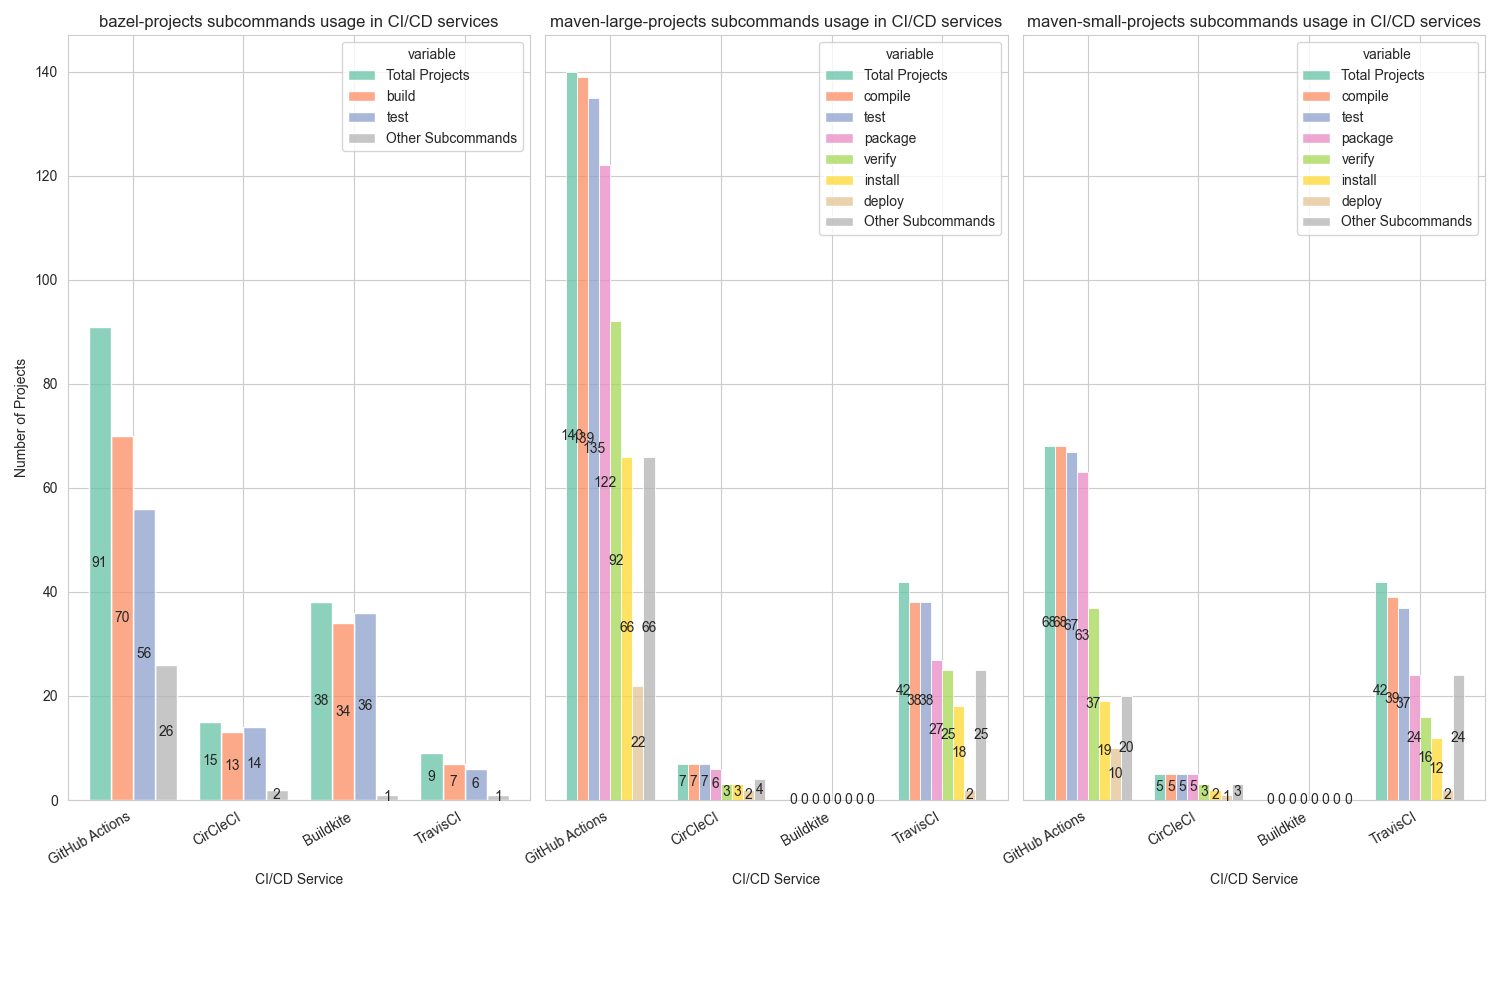
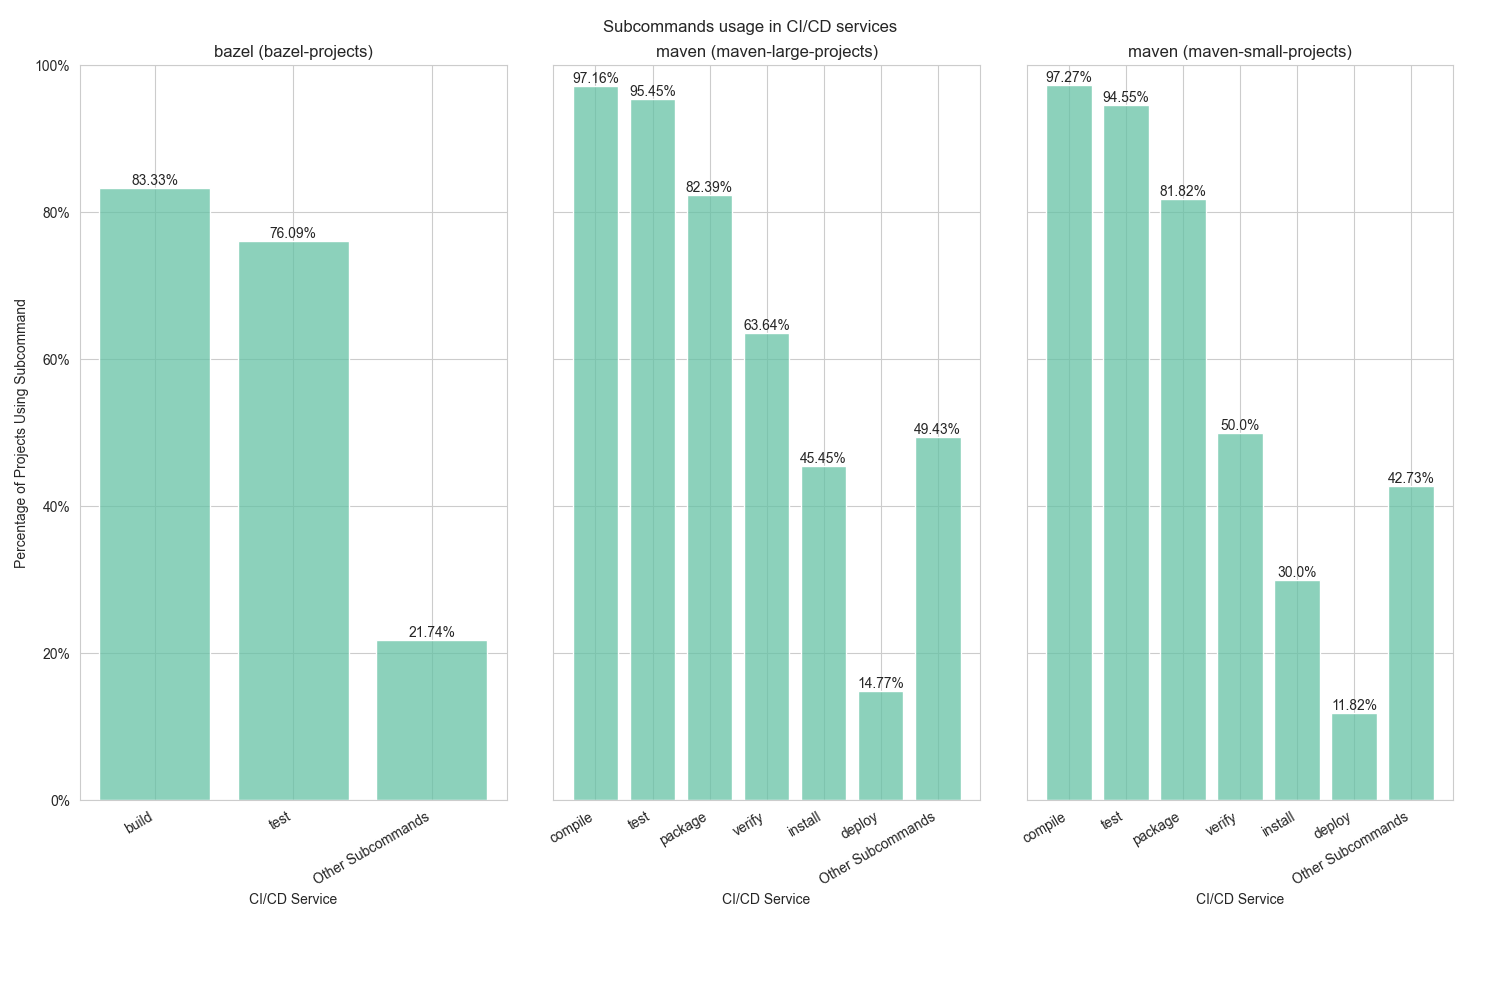
feat: change the CI tool usage plot to percentage-based

diff --git a/visualization/visualize.py b/visualization/visualize.py
@@ -3,7 +3,7 @@ import copy
 import numpy as np
 import pandas as pd
 import seaborn as sns
-from matplotlib import pyplot as plt
+from matplotlib import pyplot as plt, ticker
 import matplotlib.ticker as mticker
 
 from visualization.preprocess import *
@@ -14,16 +14,16 @@ def visualize_data(data_dir: str):
 
     data_dir = os.path.join(data_dir, "processed")
     # visualize_ci_tools(data_dir)
+    visualize_subcommand_usage(data_dir)
     # visualize_parallelization_usage(data_dir)
     # visualize_cache_usage(data_dir)
-    # visualize_subcommand_usage(data_dir)
     # visualize_build_rule_categories(data_dir)
     # visualize_script_usage(data_dir)
-    visualize_arg_size(data_dir)
+    # visualize_arg_size(data_dir)
 
 
 def visualize_ci_tools(data_dir: str):
-    fig, axs = plt.subplots(ncols=3, nrows=1, figsize=(15, 10), tight_layout=True, sharey=True)
+    fig, axs = plt.subplots(ncols=3, nrows=2, figsize=(15, 10), sharex=True)
     parent_dir_names = {"bazel-projects": "bazel", "maven-large-projects": "maven", "maven-small-projects": "maven"}
     idx = 0
     for parent_dir_name, correspondent_build_tool in parent_dir_names.items():
@@ -40,18 +40,60 @@ def visualize_ci_tools(data_dir: str):
                 build_tool_usage.loc[
                     build_tool_usage["CI/CD Services"] == ci_tool, "CI" if used_in_tool else "Local"] += 1
 
-        build_tool_usage = build_tool_usage.melt(id_vars="CI/CD Services")
-        ax = sns.histplot(data=build_tool_usage, x="CI/CD Services", hue="variable", weights="value", discrete=True,
-                          palette="Set2", multiple="stack", ax=axs[idx])
-        idx += 1
+        build_tool_usage["total"] = build_tool_usage["Local"] + build_tool_usage["CI"]
+        build_tool_usage["CI_percentage"] = build_tool_usage["CI"] / build_tool_usage["total"]
+        build_tool_usage["Local_percentage"] = build_tool_usage["Local"] / build_tool_usage["total"]
+
+        ax = sns.histplot(data=build_tool_usage, weights="CI_percentage", x="CI/CD Services",
+                          shrink=.8, ax=axs[0][idx], color="#66c2a5")
+
+        ax.set_title(f"{correspondent_build_tool} ({parent_dir_name})")
+
+        ax.set(ylim=(0, 1))
+        if idx == 0:
+            ax.set_ylabel("Percentage of projects using the build tool in CI")
+        else:
+            ax.set_ylabel("")
+
         for c in ax.containers:
-            ax.bar_label(c, label_type='center')
+            labels = []
+            for p, bar_idx in zip(c.patches, range(len(c.patches))):
+                if p.get_height() == 0:
+                    labels.append("")
+                else:
+                    labels.append(f"{int(p.get_height() * 10000) / 100}% ({build_tool_usage['CI'][bar_idx]})")
 
-        ax.set_title(f"{parent_dir_name} usage in CI/CD services")
-        ax.set_xlabel("CI/CD Service")
-        ax.set_ylabel("Number of Projects")
+            ax.bar_label(c, labels=labels, padding=1)
 
-    fig.autofmt_xdate()
+        ax = sns.histplot(data=build_tool_usage, weights="Local_percentage", x="CI/CD Services", shrink=.8,
+                          ax=axs[1][idx], color="#fc8d62")
+        ax.set(ylim=(0, 1))
+        if idx == 0:
+            ax.set_ylabel("Percentage of projects only using the build tool locally")
+            yticks = ax.get_yticklabels()
+            yticks[-1].set_visible(False)
+        else:
+            ax.set_ylabel(None)
+
+        ax.invert_yaxis()
+
+        for c in ax.containers:
+            labels = []
+            for p, bar_idx in zip(c.patches, range(len(c.patches))):
+                if p.get_height() == 0:
+                    labels.append("0%")
+                else:
+                    labels.append(f"{int(p.get_height() * 10000) / 100}% ({build_tool_usage['Local'][bar_idx]})")
+
+            ax.bar_label(c, labels=labels, padding=1)
+        idx += 1
+
+    for ax in axs.flat:
+        ax.yaxis.set_major_formatter(ticker.PercentFormatter(1))
+
+    plt.suptitle("Build tool usage in CI/CD services")
+    plt.tight_layout()
+    plt.subplots_adjust(hspace=0)
     plt.savefig("./images/ci_tool_usage")
     plt.show()
 
@@ -173,49 +215,34 @@ def visualize_subcommand_usage(data_dir: str):
 
     idx = 0
     for parent_dir_name, correspondent_build_tool in parent_dir_names.items():
-        subcommand_usage = {"CI/CD Services": ["GitHub Actions", "CirCleCI", "Buildkite", "TravisCI"]}
+        subcommand_usage = {}
 
         df = pd.read_csv(os.path.join(data_dir, f"{parent_dir_name}-build_tools.csv"))
         df = df.loc[df["use_build_tool"]]
+        count_unique_subcommand_usage(correspondent_build_tool, build_tool_subcommand_names, df, subcommand_usage)
 
-        count_unique_subcommand_usage(correspondent_build_tool, build_tool_subcommand_names,
-                                      df.loc[df["ci_tool"] == "github_actions"],
-                                      subcommand_usage, subcommand_usage_arr_idx=0)
-        count_unique_subcommand_usage(correspondent_build_tool, build_tool_subcommand_names,
-                                      df.loc[df["ci_tool"] == "circle_ci"],
-                                      subcommand_usage, subcommand_usage_arr_idx=1)
-        count_unique_subcommand_usage(correspondent_build_tool, build_tool_subcommand_names,
-                                      df.loc[df["ci_tool"] == "buildkite"],
-                                      subcommand_usage, subcommand_usage_arr_idx=2)
-        count_unique_subcommand_usage(correspondent_build_tool, build_tool_subcommand_names,
-                                      df.loc[df["ci_tool"] == "travis_ci"],
-                                      subcommand_usage, subcommand_usage_arr_idx=3)
+        subcommand_usage = pd.DataFrame(subcommand_usage.items(), columns=["Subcommand", "Count"])
+        total_projects = df["project"].unique().size
+        subcommand_usage["Usage Percentage"] = subcommand_usage["Count"] / total_projects
+        subcommand_usage["Subcommand"] = pd.Categorical(subcommand_usage["Subcommand"],
+                                                        categories=build_tool_subcommand_names[correspondent_build_tool] + ["Other Subcommands"])
 
-        subcommand_usage = pd.DataFrame(subcommand_usage)
+        ax = sns.histplot(data=subcommand_usage, x="Subcommand", weights="Usage Percentage", shrink=.8, ax=axs[idx], color="#66c2a5")
 
-        total_gha_projects_count = (df.loc[df["ci_tool"] == "github_actions"]["project"]).unique().size
-        total_circleci_projects_count = (df.loc[df["ci_tool"] == "circle_ci"]["project"]).unique().size
-        total_buildkite_projects_count = (df.loc[df["ci_tool"] == "buildkite"]["project"]).unique().size
-        total_travisci_projects_count = (df.loc[df["ci_tool"] == "travis_ci"]["project"]).unique().size
-        subcommand_usage["Total Projects"] = [total_gha_projects_count, total_circleci_projects_count,
-                                              total_buildkite_projects_count, total_travisci_projects_count]
-
-        subcommand_usage = subcommand_usage.melt(id_vars="CI/CD Services")
-
-        palette = "Set2" if correspondent_build_tool == "maven" else ["#66c2a5", "#fc8d62", "#8da0cb", "#b3b3b3"]
-        ax = sns.histplot(data=subcommand_usage, x="CI/CD Services", hue="variable", weights="value", discrete=True,
-                          shrink=0.8, palette=palette, multiple="dodge", ax=axs[idx],
-                          hue_order=["Total Projects"] + build_tool_subcommand_names[correspondent_build_tool] + [
-                              "Other Subcommands"])
         idx += 1
 
         for c in ax.containers:
-            ax.bar_label(c, label_type='center')
+            ax.bar_label(c, labels=[f"{round(p.get_height() * 100, 2)}%" for p in c.patches], label_type='edge')
 
-        ax.set_title(f"{parent_dir_name} subcommands usage in CI/CD services")
+        ax.set_title(f"{correspondent_build_tool} ({parent_dir_name})")
         ax.set_xlabel("CI/CD Service")
-        ax.set_ylabel("Number of Projects")
+        ax.set_ylabel("Percentage of Projects Using Subcommand")
 
+    for ax in axs:
+        ax.set_ylim(0, 1)
+        ax.yaxis.set_major_formatter(ticker.PercentFormatter(1))
+
+    plt.suptitle("Subcommands usage in CI/CD services")
     plt.tight_layout()
     figs.autofmt_xdate()
     plt.savefig("./images/command_usage")
@@ -223,8 +250,8 @@ def visualize_subcommand_usage(data_dir: str):
 
 
 # TODO we need to check the -Dmaven.test.skip=true flag or -DskipTests flag in the build commands!
-def count_unique_subcommand_usage(correspondent_build_tool, build_tool_subcommand_names, gha_projects, subcommand_usage,
-                                  subcommand_usage_arr_idx):
+def count_unique_subcommand_usage(correspondent_build_tool, build_tool_subcommand_names, gha_projects,
+                                  subcommand_usage):
     for project in gha_projects["project"].unique():
         project_df = gha_projects.loc[gha_projects["project"] == project]
         subcommands = set()
@@ -252,9 +279,9 @@ def count_unique_subcommand_usage(correspondent_build_tool, build_tool_subcomman
 
         for subcommand in subcommands:
             if subcommand not in subcommand_usage:
-                subcommand_usage[subcommand] = [0, 0, 0, 0]
+                subcommand_usage[subcommand] = 0
 
-            subcommand_usage[subcommand][subcommand_usage_arr_idx] += 1
+            subcommand_usage[subcommand] += 1
 
 
 def visualize_build_rule_categories(data_dir: str):
@@ -367,7 +394,8 @@ def visualize_script_usage(data_dir: str):
         ax.set_xlabel("CI/CD Service")
         ax.set_ylabel("Number of Projects")
 
-    fig.legend(title="Whether use shell script to run build systems", labels=["Yes", "No"], loc="center right", bbox_to_anchor=(1, 0.9))
+    fig.legend(title="Whether use shell script to run build systems", labels=["Yes", "No"], loc="center right",
+               bbox_to_anchor=(1, 0.9))
 
     fig.autofmt_xdate()
     plt.savefig("./images/script_usage")
